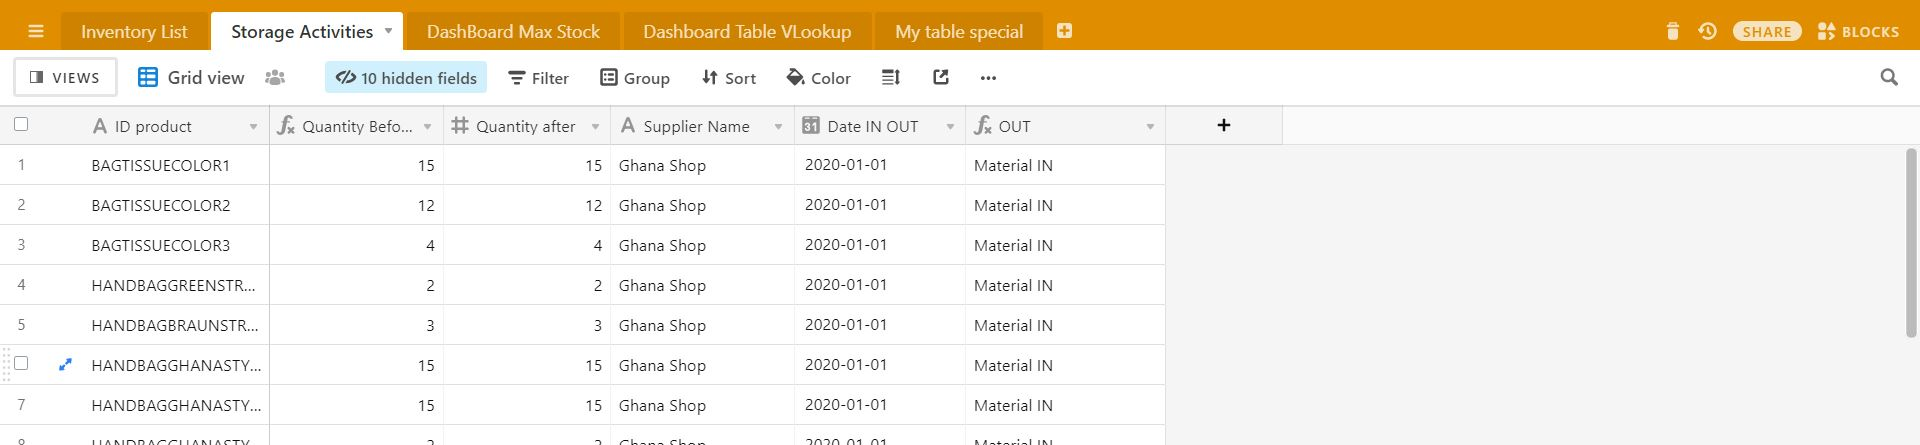
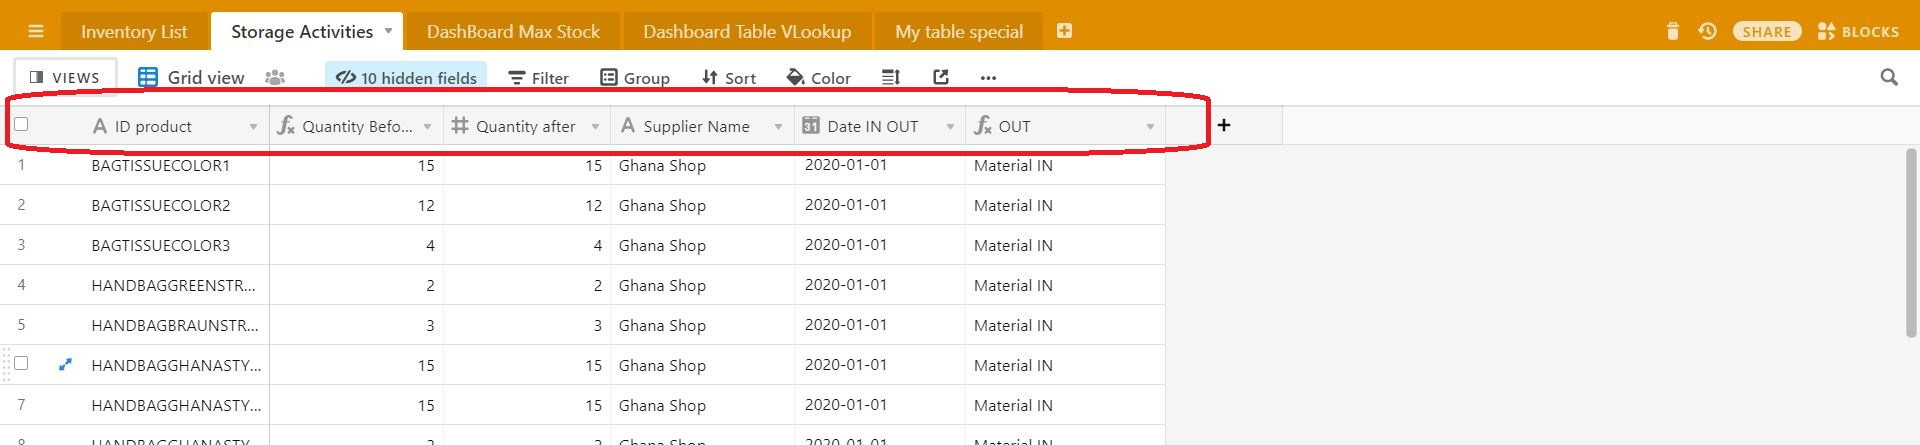
New gif to illustrate the functionnality

Changed region(s): [[0.0, 0.1753, 0.625, 0.2337], [0.0, 0.3213, 0.625, 0.3506]]

diff --git a/frontend/Apply_CSS.js b/frontend/Apply_CSS.js
@@ -24,7 +24,8 @@ loadCSSFromString('a:hover { background: #FF9F1C; border-radius: 25px; border: 2
 loadCSSFromString('box.tittle {font-size: 25px; text-align: center;  background: #FF9F1C ; border: 15px solid #FF9F1C; border-radius: 25px }' );
 
 // Background color :
-loadCSSFromString('body {background-color:' + myConstClass.Couleur_BBC);
+loadCSSFromString('body {background-color:' + myConstClass.Couleur_BBC + '}');
+
 
 //css from index 
 // CSS de index.js
@@ -54,9 +55,11 @@ loadCSSFromString(' .column1g{  border-radius: 25px; float: left;   width: 100%;
 // FIN CSS KPI
 
 // CSS de index.js + item information
-loadCSSFromString('img.displayed {display: block; margin-left: auto; margin-right: auto;} .row { display : flex;} .column1{  float: left;  width: 60%;} .column2{ width:100%; height:100%; display: inline-block} ' );
+loadCSSFromString('img.displayed {display: block; margin-left: auto; margin-right: auto;  max-width: 95%; max-height: 300px; } .row { display : flex;} .column1{  float: left;  width: 60%;} .column2{ width:100%; height:100%; display: inline-block} ' );
 loadCSSFromString(' ul.column1{ text-align: left ; display: inline-block; }');
 loadCSSFromString(' ul.bloc { word-wrap: break-word; max-width: 95% ; }');
+//loadCSSFromString(' ul.bloc_image { word-wrap: break-word; max-width: 150px; max-height: 150px; }');
+//loadCSSFromString(' ul.bloc { word-wrap: break-word; max-width: 95% ; }');
 // END CSS de index.js + item information
 
 

diff --git a/frontend/item_information.js b/frontend/item_information.js
@@ -483,9 +483,9 @@ function List_items__usestate({table,my_record}){
 							<div class="row" >
 								<div class="column1">    																	
 										<h2>My items information :  </h2>
-											<ul class="bloc">	{List_of_variable}	</ul>									
+											<ul className="bloc">	{List_of_variable}	</ul>									
 								</div>
-								<div  class="bloc" display="table-cell" vertical-align="middle" >
+								<div  className="bloc_image" display="table-cell" vertical-align="middle" >
 									{my_images_items}
 
 								</div>

diff --git a/frontend/myConstClass.js b/frontend/myConstClass.js
@@ -20,7 +20,7 @@ export const FIELD_QUANTITY_WIDTH_PERCENTAGE = '30%';
 // Def : Number of Char to limit the size of the string. It will give a better view of the tools
 // Usage : Module "My Stock"
 // file : index.js
-export const NUNBER_OF_CHAR_SEEN_IN_STOCK_PER_COLL = 10;
+export const NUNBER_OF_CHAR_SEEN_IN_STOCK_PER_COLL = 30;
 
 // Def : name of the table
 // Usage : Module "Item Information" and "My Dash Board"

diff --git a/README.md b/README.md
@@ -33,7 +33,7 @@ This block is build for the Storage Activities or Store activities, or any place
   - It is possible to create from scratch or to start with a template. Let see the two options :
   
 
-  | Option 1 Start with a template  | Option 2 : start from scratch |
+  | Option 1 : start with a template  | Option 2 : start from scratch |
   | ------------- | ------------- |
   | We look for the template "Lemonade Stand Inventory". We just write "Inventory" and we can find it.  | - We create two new tables for instances *"Inventory List"*, where we will list all the existing items , and *"Storage activities"* where we will follow the activities of our store. We will see why those two tables are important in the next chapter. |
   |  |  |
@@ -206,23 +206,35 @@ If you have choosen the option 1 above *Start with a template* you should have 3
 
   2. update all the items : when the previous fine tunning is done, it is time to update all the items in your table *"Inventory List"*
 
-  3. adapt color and css : to match with your company, it is possible to modify the code and modify the CSS information. The current version was adapted for African Product Saler. It is free to use. All the information CSS are in **main.js**.
-  Personalized Color background
+          ![Add Data](https://github.com/Vikento/MyShopBlock/blob/master/media/Block_creation/Add_Data.gif?raw=true)
+
+
+  3. adapt color and css : to match with your company, it is possible to modify the code and modify the CSS information. The current version was created for the Store BijouMax. It is free to use. All CSS information are in **Apply_CSS**.
+        ![Adapt Color](https://github.com/Vikento/MyShopBlock/blob/master/media/Block_creation/Adapt_CSS.gif?raw=true)
+
+  
 
 
 ### 4. Using your block
-There is 3 modules created : My Stock, Item Information, My Dash Board. They have all a specific usage and can be accessible to all the users.
-  - My Stock : it is the list of all the items in the stock. It is create with 3 colums : the primary Key and 2 others column showing 2 fields from the table **"Inventory List"**. 
+There is 3 modules created : *My Stock*, *Item Information*, *My Dash Board*. They have all a specific usage and can be accessible to all the users.
+  1. My Stock : 
+    - It is the list of all the items in the stock. It is create with 3 colums : the primary Key and 2 others column showing 2 fields from the table **"Inventory List"**. 
+
+  ![Module My Stock ](https://github.com/Vikento/MyShopBlock/blob/master/media/Block_creation/My_Stock_module_1.gif?raw=true)
+
     - To get access to more information on the item it is possible to click on the item (ITEM ID - PRIMARY KEY // first column). It will open the second module : **"Item Information"**. If you want to update information, you can click on the second or the third column. It will open a window with summary information of the items.
     - The items are classify ordered by the creation. It is not possible for now to order by alphabetic order.
-    
     - You can chose the fields of your need. To avoid table not adapted the name and information of the items were limited and truncated. It will write 10 chars if you have not changed anything . It is possible to change the numbner of char keep to have optimized view of your table changing the default value of **"NUNBER_OF_CHAR_SEEN_IN_STOCK_PER_COLL"** . This constant is in the file `myConstClass.js` :
     ```javascript
         // change the value to the number of char you want to print in the table
       export const NUNBER_OF_CHAR_SEEN_IN_STOCK_PER_COLL = 10;
     ```
 
- - Item Information : this module show all the information relative to a specific item. 
+    ![Change size char ](https://github.com/Vikento/MyShopBlock/blob/master/media/Block_creation/ChangeSizeName.gif?raw=true)
+
+ 2. Item Information : 
+    
+    - this module show all the information relative to a specific item. 
     - If you have clicked on the item ID from the module **"My Stock"**, it will show the information from this item. If you need to look for another item you can click on the input field, be sure there is not item already writen (you can delete), and type the item you are looking for. The search will target the *"Items"* field. If you have create *"Name"* field, it will all check on this part. In order to facilitate, it will autosuggest the list of item during you write the name or ID of the item. With this version the Item Information will show you on the right part the picture you added in your table. The format .gif, .png, .bmp and .jpg are supported. 
     - Ignore some items if needed : add **"--"** in front of the fields name will result to ignore the item. You will not see this specific item in the Module Item Information. You can as well change **"--"** with another string from `myConstClass.js` .  
     ```javascript
@@ -230,6 +242,9 @@ There is 3 modules created : My Stock, Item Information, My Dash Board. They hav
     export const KPI_IGNORE_FIELD_CHAR = "--"; 
     ```
     - Order your items if needed : in the module Item information you will see the field information ordered by alphabetic. So to have a better classication, you need to rename the field. For instance you can use 1/ , 2/, 3/ ... to get the exact order need.
+
+    ![Change Order ](https://github.com/Vikento/MyShopBlock/blob/master/media/Block_creation/Change_order.gif?raw=true)
+
     - If the table **"Storage Activities"** is created with all the information fields listed in the previous chapter, it will list all the operations : item received and given from the store. If the fields or the table doesn't exist, you will get message it is not created. If you don't create the table and all the fields needed, you will get a message to inform you need the data cannot be show. To avoid this message, you have the constante **"STORAGE_ACTIVITY_LOG_ACTIVATED"** that you can change the value (in myConstClass.js) to false :
      ```javascript
         // change the value to true if you want to activate the log or false if not
@@ -238,7 +253,7 @@ There is 3 modules created : My Stock, Item Information, My Dash Board. They hav
 
 
 
-  - My Dash Board : this module will show all the KPI you are authorize to see. The user is detected and the KPI is shower base on the user ID. There is 3 types of KPI that can be seen :
+  3. My Dash Board : this module will show all the KPI you are authorize to see. The user is detected and the KPI is shower base on the user ID. There is 3 types of KPI that can be seen :
       - **KPI on the alert** : it is a fixed KPI which depend on the recommanded fields name configurated in the previous chapter. It is important to have all the fields in **"Inventory List" table** (check chap **3. Installation and configuration of your block** and **a. List of tables and fields to create**). The KPI will list all the alerts on the quantity, when it is lower than the threshold. Also alert on the total value for an item when it is higher than the value configurated. So it will show 2 alerts by items. If one of the fields or the tables are not presents, the KPi will not show. If you need to see all the table and fields, but you dont want to have the KPI, you can desastivated the option in myConstClass puting false in front of constant **"LIST_OF_LOG_FUNCTION_ACTIVATED"**.
 
       - **personalized KPI** : the module **"My Dash Board"** will check all the table starting by **"DashBoard"** and it will show the information for each field. 
